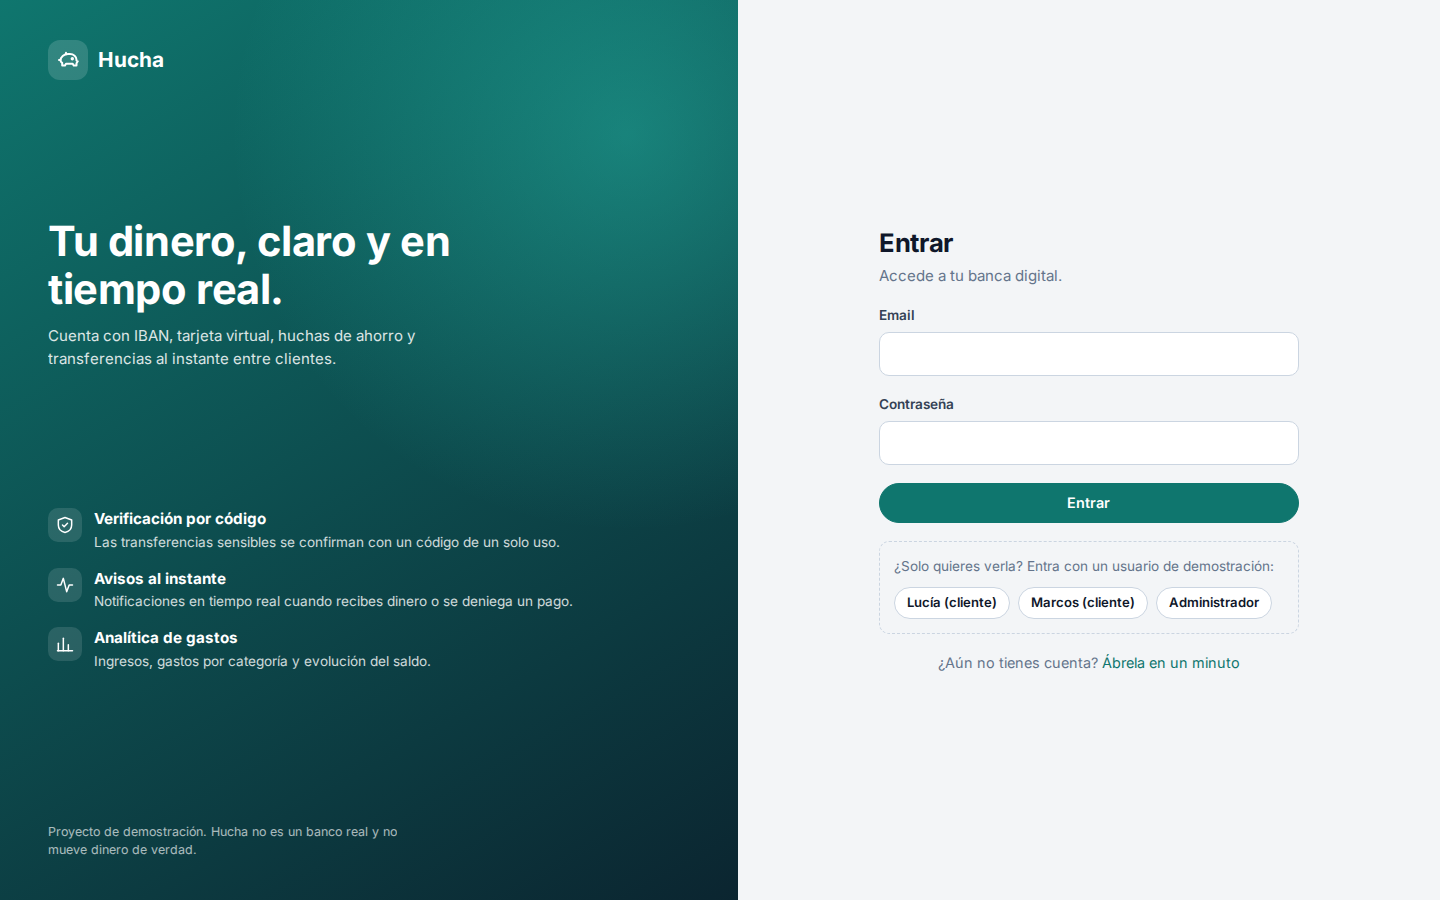
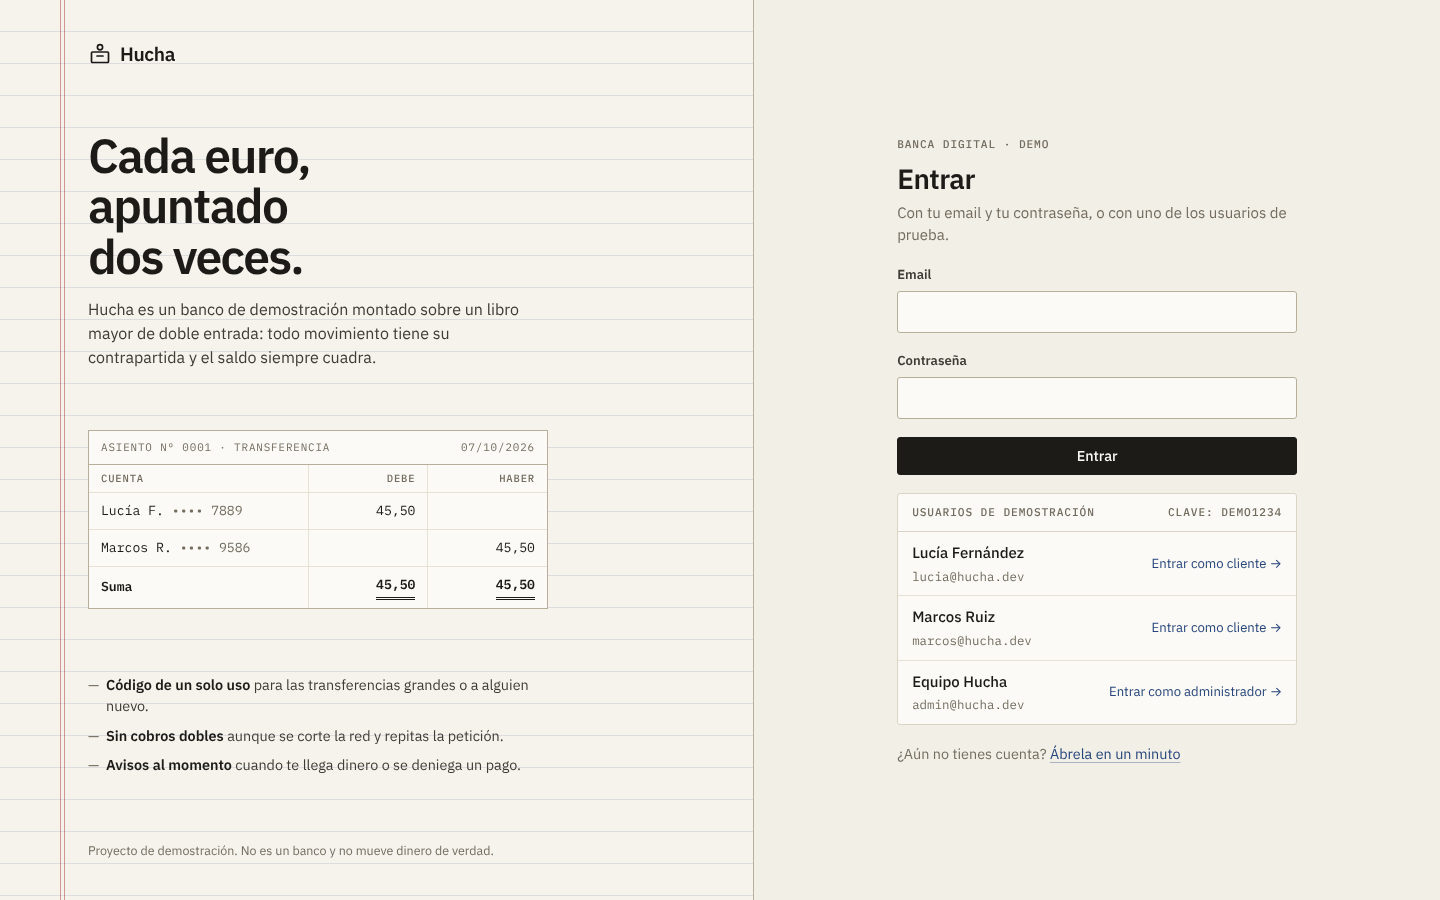
Docs: capturas del nuevo diseño y sección de diseño en el README

diff --git a/README.md b/README.md
@@ -1,6 +1,6 @@
 <div align="center">
 
-# 🐷 Hucha
+# Hucha
 
 **Banca digital de demostración: cuentas con IBAN, transferencias con verificación por código, tarjeta virtual, huchas de ahorro y avisos en tiempo real.**
 
@@ -25,6 +25,7 @@ Spring Boot 3.5 · Java 17 · PostgreSQL · Angular 21 · Docker
 - [Capturas](#capturas)
 - [Arquitectura](#arquitectura)
 - [Decisiones técnicas](#decisiones-técnicas)
+- [Diseño](#diseño)
 - [Cómo arrancarlo](#cómo-arrancarlo)
 - [Tests](#tests)
 - [API](#api)
@@ -43,7 +44,7 @@ Spring Boot 3.5 · Java 17 · PostgreSQL · Angular 21 · Docker
 - **Analítica**: ingresos y gastos por mes, gasto por categoría, evolución del saldo a 90 días y un resumen en lenguaje natural.
 - **Avisos en tiempo real** (Server-Sent Events): dinero recibido, pagos denegados, códigos de verificación...
 - **Seguridad**: cambio de contraseña, lista de sesiones abiertas por dispositivo y cierre remoto.
-- Modo oscuro y diseño adaptado al móvil.
+- Diseño propio inspirado en un libro de cuentas, con modo oscuro y versión móvil.
 
 **Como administrador (back-office)**
 
@@ -162,9 +163,20 @@ sequenceDiagram
 - Angular 21 con componentes *standalone*, **signals**, `OnPush` en todo y **sin zone.js**.
 - Formularios reactivos, *lazy loading* por página y guards por rol (cliente o administrador).
 - Interceptor funcional que añade el token y, ante un `401`, **renueva una sola vez** y repite la petición. Si hay varias a la vez, comparten la misma renovación.
-- **Gráficos SVG hechos a mano** (barras, donut y línea con *tooltip*), sin librerías. Miden su ancho real con `ResizeObserver` para que el texto no se deforme.
-- Sistema de diseño propio con variables CSS, modo oscuro y la fuente Inter incluida en el bundle.
+- **Gráficos SVG hechos a mano** (barras, barra de reparto y línea con *tooltip*), sin librerías. Miden su ancho real con `ResizeObserver` para que el texto no se deforme.
+- Sistema de diseño propio en CSS con variables, modo claro y oscuro, y las fuentes incluidas en el bundle (sin peticiones a Google Fonts).
 - Accesibilidad: `<dialog>` nativo para los modales, roles ARIA, foco visible y `prefers-reduced-motion`.
+
+## Diseño
+
+La interfaz no parte de ninguna plantilla ni librería de componentes. La idea sale del propio backend: si el dinero se apunta en un **libro mayor**, la aplicación se parece a uno.
+
+- **Papel y tinta.** Fondo color papel, texto casi negro y **un solo color de acento** (tinta azul). Nada de degradados.
+- **Cifras en monoespaciada** (IBM Plex Mono). Los importes, IBAN, fechas y referencias se alinean en columna como en un extracto; el resto del texto va en IBM Plex Sans.
+- **Convenciones contables.** Los totales llevan doble subrayado, los ingresos van en verde, el signo menos es el tipográfico (−) y los números rojos son rojos.
+- **Líneas finas en lugar de sombras**, esquinas casi rectas y etiquetas tipo sello para los estados (`ENVIADA`, `CONGELADA`).
+- **Piezas con intención:** el justificante parece un ticket impreso, el progreso de las huchas es una regla graduada y la portada muestra un asiento de doble entrada sobre papel pautado con margen rojo.
+- **Gráficos sobrios:** barras planas, una barra de reparto en lugar de un donut (las longitudes se comparan mejor que los ángulos) y una línea sin relleno.
 
 ## Cómo arrancarlo
 
